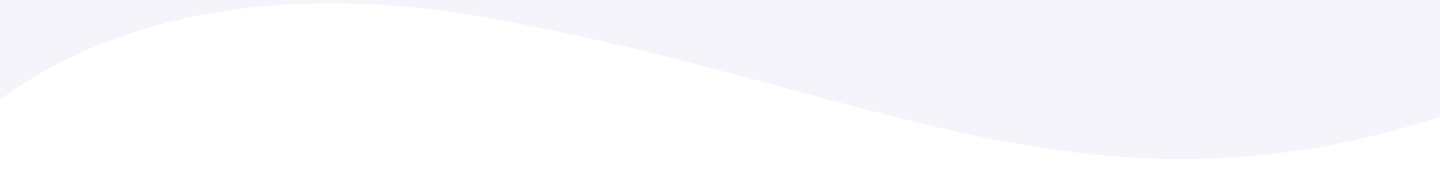
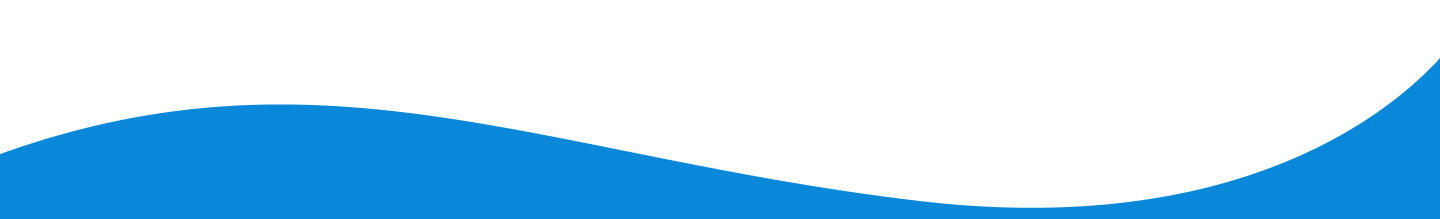
upd

diff --git a/src/pages/Hero.jsx b/src/pages/Hero.jsx
@@ -1,34 +1,33 @@
-import React, { useRef } from "react";
+import React, { useRef, useState } from "react";
 import { Canvas, useFrame } from "@react-three/fiber";
 import { OrbitControls, RoundedBox, Environment } from "@react-three/drei";
 import * as THREE from "three";
 
 function IPhone({ screenTexture, scale = 1.1 }) {
   const phoneRef = useRef();
+  const [phase, setPhase] = useState("spin"); // "spin" → "float"
 
-  // Rotasi idle
+  // Animasi utama
   useFrame((state) => {
-    if (phoneRef.current) {
-      phoneRef.current.rotation.y += 0.002;
+    if (!phoneRef.current) return;
 
-      const x = state.mouse.x * 0.2;
-      const y = state.mouse.y * 0.2;
-      phoneRef.current.rotation.x = THREE.MathUtils.lerp(
-        phoneRef.current.rotation.x,
-        y,
-        0.1
-      );
-      phoneRef.current.rotation.z = THREE.MathUtils.lerp(
-        phoneRef.current.rotation.z,
-        -x,
-        0.1
-      );
+    if (phase === "spin") {
+      // brutal spin
+      phoneRef.current.rotation.y += 0.1; // cepat
+      if (phoneRef.current.rotation.y > Math.PI * 2) {
+        // muter 2x putaran
+        phoneRef.current.rotation.y = 0;
+        setPhase("float");
+      }
+    } else if (phase === "float") {
+      // animasi idle floating
+      phoneRef.current.position.y = Math.sin(state.clock.elapsedTime) * 0.1;
     }
   });
 
   return (
     <group ref={phoneRef} scale={scale}>
-      {/* Frame luar (stainless) */}
+      {/* Frame luar */}
       <RoundedBox args={[1, 2, 0.12]} radius={0.12} smoothness={15} castShadow>
         <meshPhysicalMaterial
           color="#900"
@@ -39,7 +38,7 @@ function IPhone({ screenTexture, scale = 1.1 }) {
         />
       </RoundedBox>
 
-      {/* Back panel glass */}
+      {/* Back panel */}
       <mesh position={[0, 0, -0.061]}>
         <planeGeometry args={[0.95, 1.9]} />
         <meshPhysicalMaterial
@@ -51,13 +50,13 @@ function IPhone({ screenTexture, scale = 1.1 }) {
         />
       </mesh>
 
-      {/* Kamera belakang */}
+      {/* Kamera */}
       <mesh position={[-0.35, 0.85, -0.058]}>
         <circleGeometry args={[0.08, 32]} />
         <meshPhysicalMaterial color="black" metalness={0.8} roughness={0.2} />
       </mesh>
 
-      {/* Depan (bezel + layar) */}
+      {/* Depan */}
       <group position={[0, 0, 0.061]}>
         <mesh>
           <planeGeometry args={[0.95, 1.9]} />
@@ -105,37 +104,30 @@ export default function Hero() {
   videoTexture.anisotropy = 16;
 
   return (
-    <section className="min-h-screen flex flex-col-reverse md:flex-row items-center justify-between px-6 md:px-40 py-12 bg-[#f6f4fb]">
-      <div className="absolute inset-0">
-        <div className="absolute w-48 h-48 md:w-72 md:h-72 rounded-full bg-primary-100 opacity-20 blur-3xl top-10 right-60 animate-pulse" />
-        <div className="absolute w-72 h-72 md:w-96 md:h-96 rounded-full bg-primary-100 opacity-20 blur-3xl bottom-10 right-10 animate-bounce" />
-      </div>
+    <section className="min-h-screen flex flex-col-reverse md:flex-row items-center justify-between px-6 md:px-20 py-12 bg-[#f6f4fb]">
       {/* Left Text */}
-      <div className="max-w-xl mb-12 md:mb-0 text-left md:text-left">
+      <div className="max-w-xl mb-12 md:mb-0 text-left">
         <p className="text-xs sm:text-sm font-semibold mb-3 uppercase tracking-wider bg-gradient-to-r from-[#0988D9] to-[#0DABEB] text-transparent bg-clip-text">
           Aplikasi Pintar Keuangan
         </p>
-
         <h1 className="text-3xl sm:text-4xl md:text-5xl lg:text-6xl font-extrabold mb-6 leading-tight">
           <span className="block text-gray-900">Atur Keuangan</span>
           <span className="block bg-gradient-to-r from-[#0DABEB] via-[#0988D9] to-[#0DABEB] text-transparent bg-clip-text">
             Lebih Mudah & Teratur
           </span>
         </h1>
-
         <p className="text-gray-600 text-base sm:text-lg md:text-xl leading-relaxed mb-8">
           Catat pemasukan, kendalikan pengeluaran, dan rencanakan tabungan
           dengan cara yang simpel. Semua dalam satu aplikasi untuk hidup yang
           lebih tenang dan finansial yang sehat.
         </p>
-
         <div className="flex flex-col sm:flex-row items-center gap-4">
           <button className="w-full sm:w-auto px-6 py-3 rounded-xl font-semibold text-white bg-gradient-to-r from-[#0DABEB] via-[#0988D9] to-[#0DABEB] shadow-lg hover:shadow-xl hover:scale-105 transition-all duration-300 cursor-pointer">
             Install Sekarang
           </button>
-          <button className="w-full sm:w-auto px-6 py-3 rounded-xl font-semibold border border-gray-300 text-gray-700 hover:bg-gray-100 hover:scale-105 transition-all duration-300 cursor-pointer">
+          <a href="#feature" className="w-full sm:w-auto px-6 py-3 rounded-xl font-semibold border border-gray-300 text-gray-700 hover:bg-gray-100 hover:scale-105 transition-all duration-300 cursor-pointer">
             Pelajari Lebih Lanjut
-          </button>
+          </a>
         </div>
       </div>
 
@@ -143,26 +135,17 @@ export default function Hero() {
       <div className="flex justify-center w-full md:w-1/2 h-[400px] sm:h-[500px] md:h-[600px]">
         <Canvas camera={{ position: [0, 0, 3.5], fov: 40 }} shadows>
           <ambientLight intensity={0.5} />
-          <directionalLight
-            position={[3, 5, 5]}
-            intensity={1.2}
-            castShadow
-            shadow-mapSize-width={2048}
-            shadow-mapSize-height={2048}
-          />
+          <directionalLight position={[3, 5, 5]} intensity={1.2} castShadow />
           <hemisphereLight
             skyColor={"#ffffff"}
             groundColor={"#b1b1b1"}
             intensity={0.6}
           />
           <Environment preset="city" />
-
-          {/* iPhone → scale disesuaikan */}
           <IPhone
             screenTexture={videoTexture}
             scale={window.innerWidth < 768 ? 0.8 : 1.1}
           />
-
           <OrbitControls enableZoom={false} />
         </Canvas>
       </div>

diff --git a/src/pages/Feature.jsx b/src/pages/Feature.jsx
@@ -36,52 +36,54 @@ export default function Feature() {
   ];
 
   return (
-    <section className=" relative overflow-hidden min-h-screen bg-[#0988D9]">
+    <section className="relative overflow-hidden min-h-screen bg-[#f6f4fb]" id="feature">
       <img
         src="/wave/fitur.png"
         alt="Wave"
-        className="w-full h-full object-cover will-change-transform"
+        className="w-full h-full object-cover"
       />
-      <div className="py-20 px-6 md:px-20">
-        {/* Judul */}
-        <div className="max-w-4xl mx-auto text-center mb-16">
-          <h2 className="text-4xl md:text-5xl font-extrabold mb-6 text-white">
-            Kenapa Pilih{" "}
-            <span className="bg-gradient-to-r from-gray-200 to-gray-300/90 text-transparent bg-clip-text">
-              Aplikasi Kami?
-            </span>
-          </h2>
-          <p className="text-white text-lg md:text-xl leading-relaxed">
-            Atur keuangan pribadi dengan cara yang lebih mudah, teratur, dan
-            menyenangkan. Berikut fitur unggulan yang akan memudahkan hidupmu:
-          </p>
-        </div>
+      <div className="bg-[#0988D9]">
+        <div className="py-20 px-6 md:px-20">
+          {/* Judul */}
+          <div className="max-w-4xl mx-auto text-center mb-16">
+            <h2 className="text-4xl md:text-5xl font-extrabold mb-6 text-white">
+              Kenapa Pilih{" "}
+              <span className="bg-gradient-to-r from-gray-200 to-gray-300/90 text-transparent bg-clip-text">
+                Aplikasi Kami?
+              </span>
+            </h2>
+            <p className="text-white text-lg md:text-xl leading-relaxed">
+              Atur keuangan pribadi dengan cara yang lebih mudah, teratur, dan
+              menyenangkan. Berikut fitur unggulan yang akan memudahkan hidupmu:
+            </p>
+          </div>
 
-        {/* Cards */}
-        <div className="grid gap-10 sm:grid-cols-2 lg:grid-cols-4 max-w-7xl mx-auto">
-          {features.map((feature, index) => (
-            <div
-              key={index}
-              className={`relative group bg-white p-8 rounded-2xl shadow-lg transition-all duration-500
+          {/* Cards */}
+          <div className="grid gap-10 sm:grid-cols-2 lg:grid-cols-4 max-w-7xl mx-auto">
+            {features.map((feature, index) => (
+              <div
+                key={index}
+                className={`relative group bg-white p-8 rounded-2xl shadow-lg transition-all duration-500
     hover:shadow-2xl hover:-translate-y-6 hover:-rotate-3 hover:scale-110 hover:shadow-[#0DABEB]/50
     animate-float animate-delay-${(index % 4) + 1}`}
-            >
-              <div className="absolute inset-0 rounded-2xl p-[2px] bg-gradient-to-r from-primary-100 to-[#0DABEB] opacity-0 group-hover:opacity-100 transition-opacity duration-500 border border-white"></div>
+              >
+                <div className="absolute inset-0 rounded-2xl p-[2px] bg-gradient-to-r from-primary-100 to-[#0DABEB] opacity-0 group-hover:opacity-100 transition-opacity duration-500 border border-white"></div>
 
-              <div className="relative z-10 flex flex-col items-center text-center">
-                <FontAwesomeIcon
-                  icon={feature.icon}
-                  className="text-5xl text-[#0DABEB] mb-4 group-hover:text-white transition-transform duration-500"
-                />
-                <h3 className="text-xl font-bold text-gray-900 mb-3 group-hover:text-white transition-colors duration-500">
-                  {feature.title}
-                </h3>
-                <p className="text-gray-600 group-hover:text-white">
-                  {feature.description}
-                </p>
+                <div className="relative z-10 flex flex-col items-center text-center">
+                  <FontAwesomeIcon
+                    icon={feature.icon}
+                    className="text-5xl text-[#0DABEB] mb-4 group-hover:text-white transition-transform duration-500"
+                  />
+                  <h3 className="text-xl font-bold text-gray-900 mb-3 group-hover:text-white transition-colors duration-500">
+                    {feature.title}
+                  </h3>
+                  <p className="text-gray-600 group-hover:text-white">
+                    {feature.description}
+                  </p>
+                </div>
               </div>
-            </div>
-          ))}
+            ))}
+          </div>
         </div>
       </div>
     </section>

diff --git a/src/components/Footer.jsx b/src/components/Footer.jsx
@@ -1,0 +1,95 @@
+import { FontAwesomeIcon } from "@fortawesome/react-fontawesome";
+import {
+  faFacebookF,
+  faInstagram,
+  faTwitter,
+  faLinkedinIn,
+} from "@fortawesome/free-brands-svg-icons";
+
+export default function Footer() {
+  return (
+    <footer className="relative bg-gradient-to-r from-[#0988D9] via-[#0DABEB] to-[#0988D9] text-white py-12 px-6 md:px-20 overflow-hidden">
+      {/* Efek Glow */}
+      <div className="absolute top-0 left-0 w-72 h-72 bg-white/10 blur-3xl rounded-full -z-10"></div>
+      <div className="absolute bottom-0 right-0 w-72 h-72 bg-black/20 blur-3xl rounded-full -z-10"></div>
+
+      <div className="max-w-7xl mx-auto grid grid-cols-1 md:grid-cols-3 gap-10">
+        {/* Branding */}
+        <div>
+          <h2 className="text-2xl font-extrabold tracking-tight">FinNote</h2>
+          <p className="mt-3 text-sm text-white/80 leading-relaxed">
+            Aplikasi catatan keuangan pintar untuk bantu kamu mengelola
+            pemasukan, pengeluaran, dan tabungan dengan lebih mudah.
+          </p>
+        </div>
+
+        {/* Navigasi */}
+        <div className="flex flex-col md:items-center">
+          <h3 className="text-lg font-semibold mb-4">Tim Kami</h3>
+          <ul className="space-y-2 text-sm">
+            <li>
+              <a
+                href="#home"
+                className="hover:text-yellow-300 transition-colors"
+              >
+                Hidayatullah
+              </a>
+            </li>
+            <li>
+              <a
+                href="#fitur"
+                className="hover:text-yellow-300 transition-colors"
+              >
+                Reynaldo Yusellino
+              </a>
+            </li>
+            <li>
+              <a
+                href="#download"
+                className="hover:text-yellow-300 transition-colors"
+              >
+                Fathi Fawwaz Amanullah
+              </a>
+            </li>
+          </ul>
+        </div>
+
+        {/* Sosial Media */}
+        <div className="flex flex-col md:items-end">
+          <h3 className="text-lg font-semibold mb-4">Ikuti Kami</h3>
+          <div className="flex gap-4">
+            <a
+              href="https://facebook.com"
+              className="w-10 h-10 flex items-center justify-center rounded-full bg-white/20 hover:bg-yellow-300 hover:text-black transition-all"
+            >
+              <FontAwesomeIcon icon={faFacebookF} />
+            </a>
+            <a
+              href="https://instagram.com"
+              className="w-10 h-10 flex items-center justify-center rounded-full bg-white/20 hover:bg-yellow-300 hover:text-black transition-all"
+            >
+              <FontAwesomeIcon icon={faInstagram} />
+            </a>
+            <a
+              href="https://twitter.com"
+              className="w-10 h-10 flex items-center justify-center rounded-full bg-white/20 hover:bg-yellow-300 hover:text-black transition-all"
+            >
+              <FontAwesomeIcon icon={faTwitter} />
+            </a>
+            <a
+              href="https://linkedin.com"
+              className="w-10 h-10 flex items-center justify-center rounded-full bg-white/20 hover:bg-yellow-300 hover:text-black transition-all"
+            >
+              <FontAwesomeIcon icon={faLinkedinIn} />
+            </a>
+          </div>
+        </div>
+      </div>
+
+      {/* Copyright */}
+      <div className="mt-12 pt-6 border-t border-white/20 text-center text-sm text-white/70">
+        © {new Date().getFullYear()} FinNote. Semua Hak Dilindungi.
+      </div>
+    </footer>
+  );
+}

diff --git a/src/pages/About.jsx b/src/pages/About.jsx
@@ -4,7 +4,7 @@ import { faMobileAlt, faChartBar } from "@fortawesome/free-solid-svg-icons";
 
 export default function AboutSection() {
   return (
-    <section className="py-20 px-6 md:px-20 bg-[#F5F9FF] relative overflow-hidden">
+    <section className="py-20 px-6 md:px-20 bg-[#f6f4fb] relative overflow-hidden">
       {/* Dekorasi background */}
       <div className="absolute top-0 left-0 w-60 h-60 bg-[#0DABEB]/20 blur-3xl rounded-full animate-pulse-slow -z-10"></div>
       <div className="absolute bottom-0 right-0 w-72 h-72 bg-[#096FA0]/20 blur-3xl rounded-full animate-bounce-slow -z-10"></div>

diff --git a/src/pages/Download.jsx b/src/pages/Download.jsx
@@ -44,7 +44,7 @@ export default function DownloadSection() {
   };
 
   return (
-    <section className="py-20 px-6 md:px-20 bg-white relative overflow-hidden">
+    <section className="py-20 px-6 md:px-20 bg-[#f6f4fb] relative overflow-hidden">
       {/* Dekorasi background */}
       <div className="absolute top-0 left-0 w-60 h-60 bg-[#0DABEB]/20 blur-3xl rounded-full animate-pulse-slow -z-10"></div>
       <div className="absolute bottom-0 right-0 w-72 h-72 bg-[#096FA0]/20 blur-3xl rounded-full animate-bounce-slow -z-10"></div>

diff --git a/src/pages/Next.jsx b/src/pages/Next.jsx
@@ -8,7 +8,7 @@ import {
 
 export default function Next() {
   return (
-    <section className="py-20 px-6 md:px-20 bg-[#F5F9FF] relative overflow-hidden">
+    <section className="py-20 px-6 md:px-20 bg-[#f6f4fb] relative overflow-hidden">
       {/* Dekorasi background */}
       <div className="absolute top-0 left-0 w-60 h-60 bg-[#0DABEB]/20 blur-3xl rounded-full animate-pulse-slow -z-10"></div>
       <div className="absolute bottom-0 right-0 w-72 h-72 bg-[#096FA0]/20 blur-3xl rounded-full animate-bounce-slow -z-10"></div>

diff --git a/src/App.jsx b/src/App.jsx
@@ -5,6 +5,7 @@ import Hero from "./pages/Hero";
 import AboutSection from "./pages/About";
 import Next from "./pages/Next";
 import DownloadSection from "./pages/Download";
+import Footer from "./components/Footer";
 
 function App() {
   return (
@@ -15,6 +16,7 @@ function App() {
       <AboutSection />
       <Next />
       <DownloadSection />
+      <Footer />
     </BrowserRouter>
   );
 }

diff --git a/src/index.css b/src/index.css
@@ -1,5 +1,9 @@
 @import "tailwindcss";
 
+html{
+  scroll-behavior: smooth;
+}
+
 @theme {
   --color-primary-100: #0dabeb;
   --color-primary-200: #0b8ec4;
